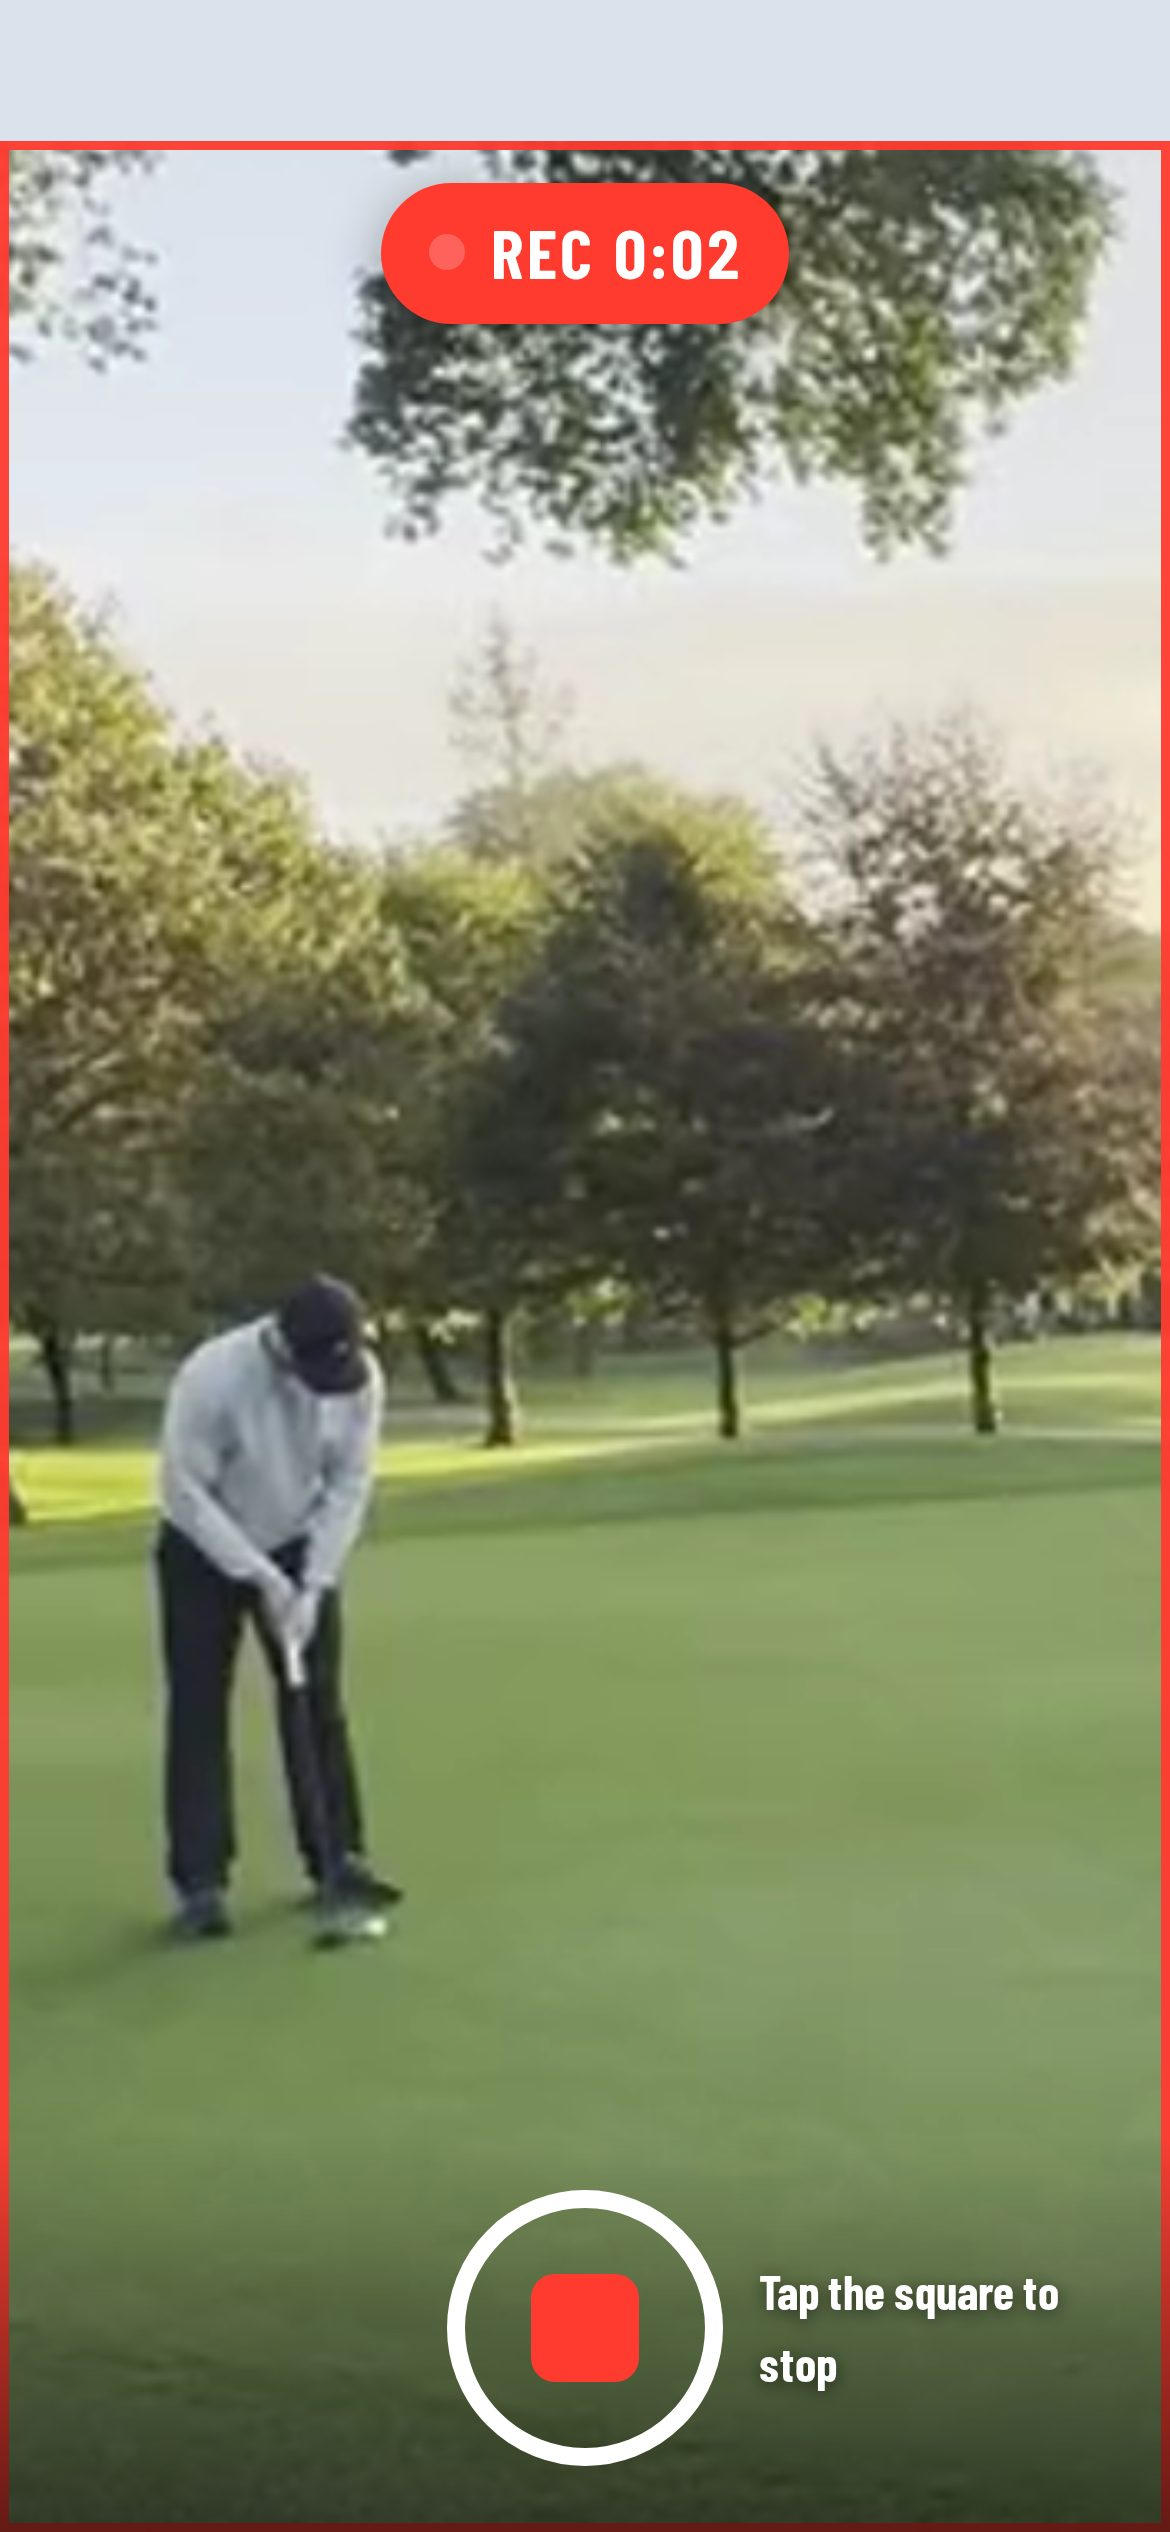
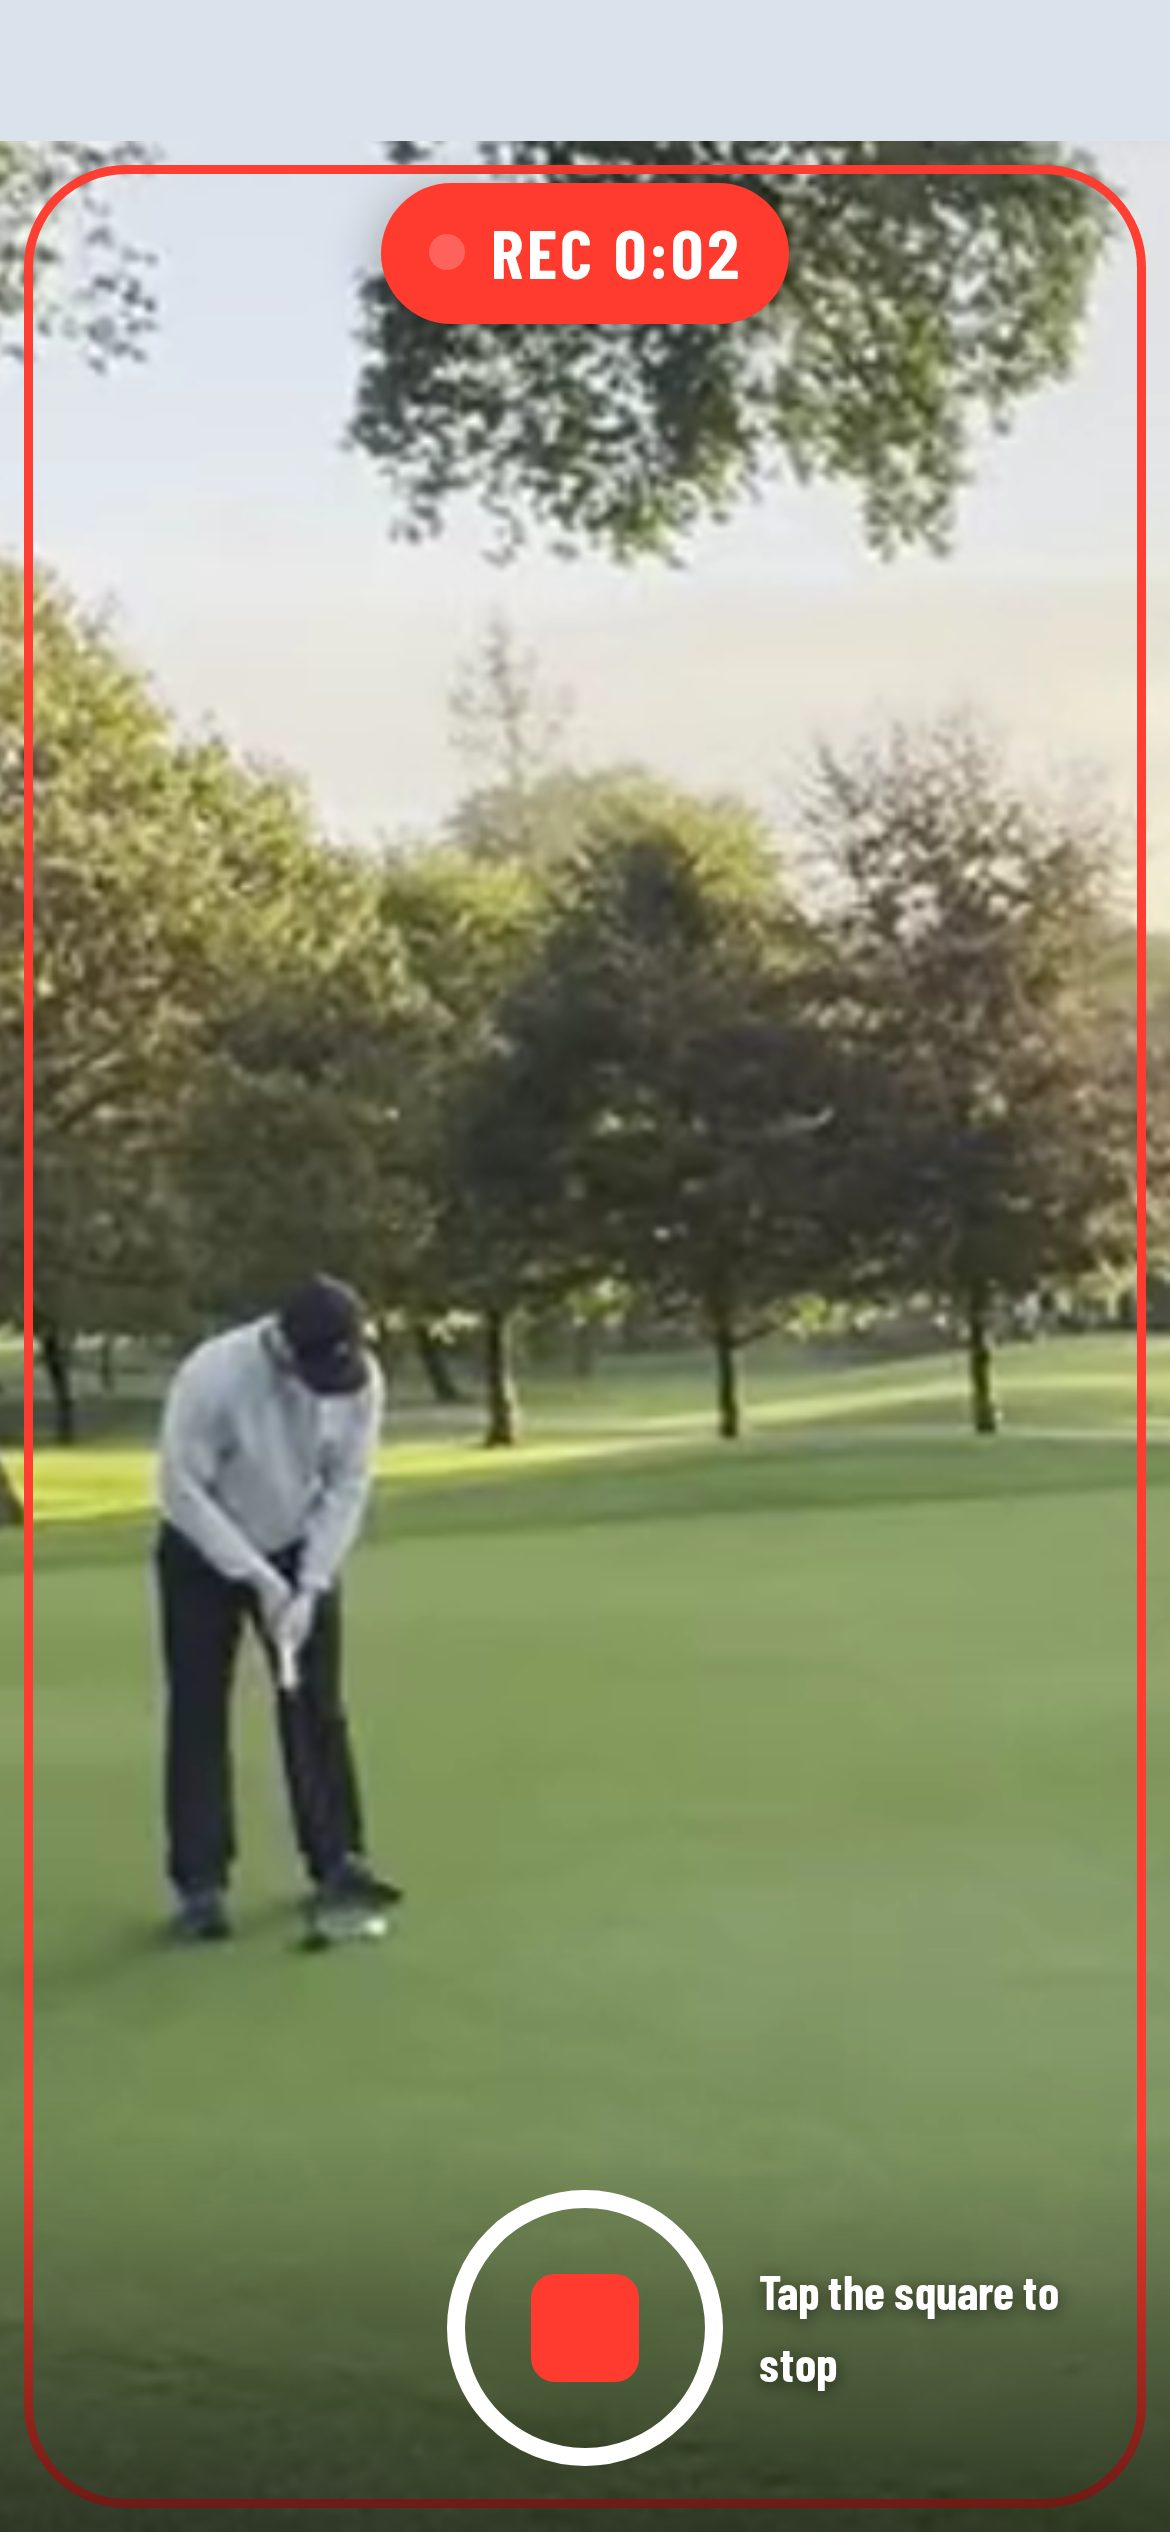
Front page: carousel arrows and dots, GPS heading, studio heading, recording border margin
Claude-Session: https://claude.ai/code/session_01UtXj4har2eEXsnp84GRpJ7

diff --git a/src/components/front/FilmShowcase.tsx b/src/components/front/FilmShowcase.tsx
@@ -1,7 +1,7 @@
 "use client";
 
 import Image from "next/image";
-import { useRef } from "react";
+import { useEffect, useRef, useState } from "react";
 import { InView } from "./Broadcast";
 import { Phone } from "./Phone";
 import screens from "@/lib/screens.json";
@@ -110,40 +110,65 @@ const dims = screens as unknown as Record<string, { dark?: boolean; w?: number; 
 /** The looks, side by side: each one's leaderboard, and the tournament's home on a phone. */
 export function ThemeScroller({ themes }: { themes: readonly Theme[] }) {
   const track = useRef<HTMLDivElement>(null);
-  const move = (dir: 1 | -1) => {
+  const [at, setAt] = useState(0);
+  // Which look is in view, as the track is scrolled (by finger, arrows or dots)
+  useEffect(() => {
     const t = track.current;
     if (!t) return;
-    const card = t.querySelector<HTMLElement>(".bx-theme");
-    t.scrollBy({ left: dir * ((card?.offsetWidth ?? 600) + 24), behavior: "smooth" });
+    const on = () => {
+      const cards = [...t.querySelectorAll<HTMLElement>(".bx-theme")];
+      const left = t.scrollLeft + t.clientWidth * 0.3;
+      let i = 0;
+      cards.forEach((c, k) => {
+        if (c.offsetLeft - cards[0].offsetLeft <= left) i = k;
+      });
+      setAt(i);
+    };
+    t.addEventListener("scroll", on, { passive: true });
+    return () => t.removeEventListener("scroll", on);
+  }, []);
+  const go = (i: number) => {
+    const t = track.current;
+    const cards = t ? [...t.querySelectorAll<HTMLElement>(".bx-theme")] : [];
+    const c = cards[Math.max(0, Math.min(cards.length - 1, i))];
+    if (t && c) t.scrollTo({ left: c.offsetLeft - cards[0].offsetLeft, behavior: "smooth" });
   };
   return (
     <div className="bx-theme-wrap">
-      <div className="bx-theme-track" ref={track}>
-        {themes.map((t) => {
-          const b = dims[`theme-${t.id}-board`] ?? { w: 1200, h: 700 };
-          return (
-            <figure className="bx-theme" key={t.id}>
-              <div className="bx-theme-stage">
-                <div className="bx-theme-board">
-                  <Image src={`/home/theme-${t.id}-board.png`} width={b.w ?? 1200} height={b.h ?? 700} alt={`The leaderboard in ${t.name}`} sizes="(min-width: 960px) 620px, 80vw" />
+      <div className="bx-theme-viewport">
+        <div className="bx-theme-track" ref={track}>
+          {themes.map((t, i) => {
+            const b = dims[`theme-${t.id}-board`] ?? { w: 1200, h: 700 };
+            return (
+              <figure className={`bx-theme${i === at ? " is-on" : ""}`} key={t.id} onClick={() => i !== at && go(i)}>
+                <div className="bx-theme-stage">
+                  <div className="bx-theme-board">
+                    <Image src={`/home/theme-${t.id}-board.png`} width={b.w ?? 1200} height={b.h ?? 700} alt={`The leaderboard in ${t.name}`} sizes="(min-width: 960px) 620px, 80vw" />
+                  </div>
+                  <Phone src={`/home/theme-${t.id}.jpg`} alt={`The tournament's home page in ${t.name}`} sizes="(min-width: 960px) 190px, 30vw" className="bx-theme-phone" />
                 </div>
-                <Phone src={`/home/theme-${t.id}.jpg`} alt={`The tournament's home page in ${t.name}`} sizes="(min-width: 960px) 190px, 30vw" className="bx-theme-phone" />
-              </div>
-              <figcaption>
-                <b>{t.name}</b>
-                <span>{t.note}</span>
-              </figcaption>
-            </figure>
-          );
-        })}
+                <figcaption>
+                  <b>{t.name}</b>
+                  <span>{t.note}</span>
+                </figcaption>
+              </figure>
+            );
+          })}
+        </div>
+        <button type="button" className="bx-theme-arrow prev" onClick={() => go(at - 1)} disabled={at === 0} aria-label="Previous look">
+          <svg viewBox="0 0 24 24" aria-hidden><path d="M15 5l-7 7 7 7" /></svg>
+        </button>
+        <button type="button" className="bx-theme-arrow next" onClick={() => go(at + 1)} disabled={at === themes.length - 1} aria-label="Next look">
+          <svg viewBox="0 0 24 24" aria-hidden><path d="M9 5l7 7-7 7" /></svg>
+        </button>
       </div>
-      <div className="bx-wrap bx-theme-nav">
-        <button type="button" onClick={() => move(-1)} aria-label="Previous look">
-          ‹
-        </button>
-        <button type="button" onClick={() => move(1)} aria-label="Next look">
-          ›
-        </button>
+      <div className="bx-wrap bx-theme-dots" role="group" aria-label="The looks">
+        {themes.map((t, i) => (
+          <button key={t.id} type="button" aria-label={t.name} aria-current={i === at} onClick={() => go(i)} />
+        ))}
+        <span className="bx-theme-count">
+          {at + 1} of {themes.length}
+        </span>
       </div>
     </div>
   );

diff --git a/src/app/globals.css b/src/app/globals.css
@@ -1236,8 +1236,8 @@ table.card.compact .shotdot { display: none; }
 .pick-tile[aria-pressed="true"] { background: var(--board); color: var(--tile); border-color: var(--board); }
 
 /* ---- The camera: unmistakable while recording, zoom, the one-time iPhone tip */
-.cam.recording::after { content: ""; position: absolute; inset: 0; z-index: 3; pointer-events: none; box-shadow: inset 0 0 0 3px #ff3b30; animation: rec-pulse 1.2s ease-in-out infinite; }
-@keyframes rec-pulse { 50% { box-shadow: inset 0 0 0 3px rgba(255, 59, 48, 0.4); } }
+.cam.recording::after { content: ""; position: absolute; inset: 8px; z-index: 3; pointer-events: none; border: 3px solid #ff3b30; border-radius: 34px; animation: rec-pulse 1.2s ease-in-out infinite; }
+@keyframes rec-pulse { 50% { border-color: rgba(255, 59, 48, 0.45); } }
 .cam-rec-banner { position: relative; z-index: 4; align-self: center; margin-top: calc(14px + env(safe-area-inset-top)); display: flex; align-items: center; gap: 9px; background: #ff3b30; color: #fff; font-family: var(--font-display); font-size: 23px; font-weight: 700; letter-spacing: 0.04em; padding: 6px 16px; border-radius: 999px; box-shadow: 0 4px 18px rgba(0, 0, 0, 0.35); font-variant-numeric: tabular-nums; }
 .cam-rec-banner .dot { width: 12px; height: 12px; border-radius: 50%; background: #fff; animation: rec-dot 1s steps(2) infinite; }
 .cam-rec-banner.warn { background: #ffb020; color: var(--on-gold, #1b1408); }
@@ -2105,7 +2105,7 @@ textarea.fr-input { resize: vertical; }
 .bx-wide-only { display: inline; }
 @media (max-width: 520px) { .bx-wide-only { display: none; } }
 .fs-still.is-in .fb-strap-card { animation-delay: 0.9s; }
-.bx-studio-h { margin: 44px 0 0; font: 700 26px var(--font-display); color: #fff; }
+.bx-studio-h { margin: 48px 0 0; font: 700 clamp(30px, 3.4vw, 40px)/1.1 var(--font-display); color: #fff; }
 .bx-studio { margin: 16px 0 0; display: grid; gap: 22px; }
 .bx-studio dt { font: 700 24px var(--font-display); color: #fff; }
 .bx-studio dd { margin: 4px 0 0; font-size: 17px; line-height: 1.45; color: rgba(255, 255, 255, 0.78); max-width: 30ch; }
@@ -2128,12 +2128,23 @@ textarea.fr-input { resize: vertical; }
 .bx-theme figcaption { display: flex; gap: 12px; align-items: baseline; flex-wrap: wrap; padding: 16px 2px 0; }
 .bx-theme figcaption b { font: 700 24px var(--font-display); color: #fff; }
 .bx-theme figcaption span { font-size: 17px; color: rgba(255, 255, 255, 0.72); }
-.bx-theme-nav { display: none; }
-@media (min-width: 960px) {
-  .bx-theme-nav { display: flex; justify-content: flex-end; gap: 10px; margin-top: 18px; }
-  .bx-theme-nav button { width: 52px; height: 52px; border-radius: 50%; border: 1px solid rgba(255, 255, 255, 0.3); background: transparent; color: #fff; font: 600 28px/1 var(--font-display); cursor: pointer; }
-  .bx-theme-nav button:hover { background: rgba(255, 255, 255, 0.1); }
-}
+/* It's a carousel: the next look shows at the edge, arrows sit on the stage's sides, and dots count them off */
+.bx-theme-viewport { position: relative; }
+.bx-theme { cursor: pointer; transition: opacity 0.35s; }
+.bx-theme:not(.is-on) { opacity: 0.55; }
+.bx-theme.is-on { cursor: default; }
+.bx-theme-arrow { position: absolute; z-index: 2; top: calc(32px + min(90vw, 1080px) * 9 / 32); transform: translateY(-50%); width: 56px; height: 56px; border-radius: 50%; border: 0;
+  display: grid; place-items: center; background: #fff; color: var(--bx-night, #0b150f); box-shadow: 0 10px 30px -6px rgba(0, 0, 0, 0.5); cursor: pointer; transition: opacity 0.2s, transform 0.2s; }
+.bx-theme-arrow svg { width: 26px; height: 26px; fill: none; stroke: currentColor; stroke-width: 2.4; stroke-linecap: round; stroke-linejoin: round; }
+.bx-theme-arrow.prev { left: max(8px, calc((100vw - 1160px) / 2 - 28px)); }
+.bx-theme-arrow.next { right: max(8px, calc((100vw - 1160px) / 2 - 28px)); }
+.bx-theme-arrow:disabled { opacity: 0; pointer-events: none; }
+.bx-theme-arrow:hover { transform: translateY(-50%) scale(1.06); }
+.bx-theme-dots { display: flex; align-items: center; gap: 10px; margin-top: 22px; }
+.bx-theme-dots button { width: 10px; height: 10px; padding: 0; border: 0; border-radius: 99px; background: rgba(255, 255, 255, 0.3); cursor: pointer; transition: width 0.3s, background 0.3s; }
+.bx-theme-dots button[aria-current="true"] { width: 30px; background: var(--gold, #c9a227); }
+.bx-theme-count { margin-left: 8px; font: 600 16px var(--font-display); color: rgba(255, 255, 255, 0.7); }
+@media (max-width: 700px) { .bx-theme-arrow { width: 44px; height: 44px; } .bx-theme-arrow svg { width: 22px; height: 22px; } }
 
 /* ---- everything that's included */
 .bx-all { padding: clamp(80px, 10vw, 128px) 0; }

diff --git a/src/components/front/FrontPage.tsx b/src/components/front/FrontPage.tsx
@@ -22,14 +22,14 @@ const MADE_FOR = [
 
 const ON_COURSE = [
   { title: "No signal, no problem", body: "Scores wait on the phone and send when there's signal.", img: "/home/offline.jpg", alt: "The scorecard: saved on this phone, sends when there's signal" },
-  { title: "Yardages without a rangefinder", body: "Front, middle and back, from where you stand. Over 40,000 courses.", img: "/home/gps.jpg", alt: "Distances to the front, middle and back of the green" },
+  { title: "GPS yardages on demand", body: "Front, middle and back, from where you stand. Over 40,000 courses.", img: "/home/gps.jpg", alt: "Distances to the front, middle and back of the green" },
   { title: "Film the moment", body: "Anyone in the group can film. Trim it on the spot and it's straight on the feed.", img: "/home/record.jpg", alt: "Filming a putt on the course, recording" },
   { title: "One tap tells the story", body: "Say what happened with a tap or a voice note. Or skip it. The score is enough.", img: "/home/shotcard.jpg", alt: "What happened: the tee shot, with one-tap answers" },
   { title: "See where you stand", body: "The leaderboard moves as every group scores.", img: "/home/follow.jpg", alt: "The live leaderboard on the phone" },
 ];
 
 const AT_HOME = [
-  { icon: "board", title: "Live leaderboard", body: "It moves as each score goes in." },
+  { icon: "board", title: "Live leaderboard", body: "Moves as each score goes in." },
   { icon: "feed", title: "Feed and live bulletins", body: "Every clip, photo and note, with bulletins as it happens." },
   { icon: "clip", title: "Highlights", body: "Clips with TV graphics, to like and comment on." },
   { icon: "mail", title: "Previews and round reports", body: "In their inbox, before and after each round." },
